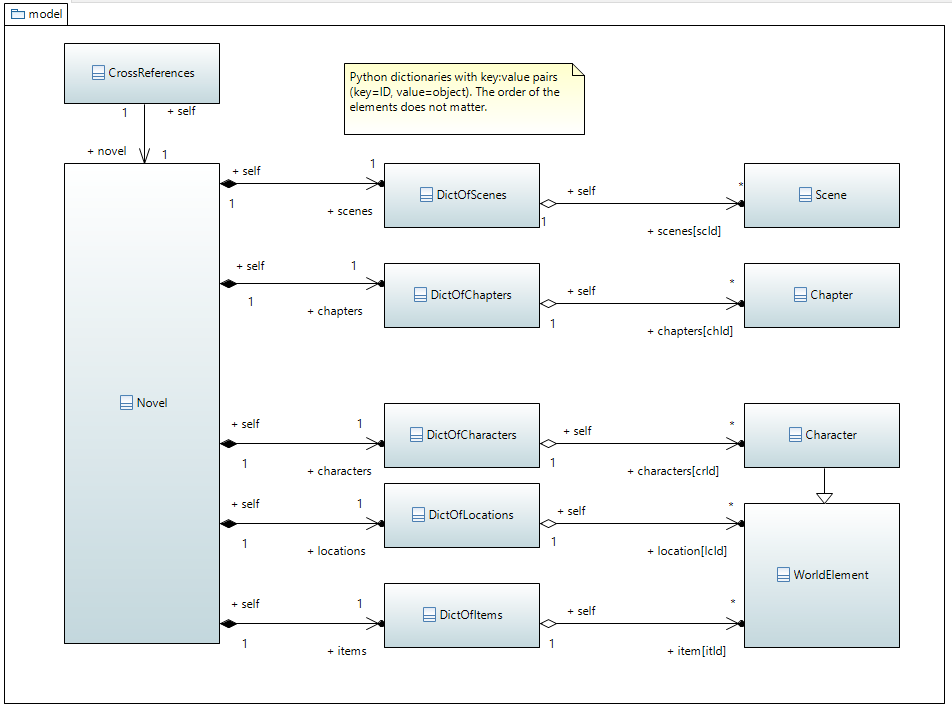
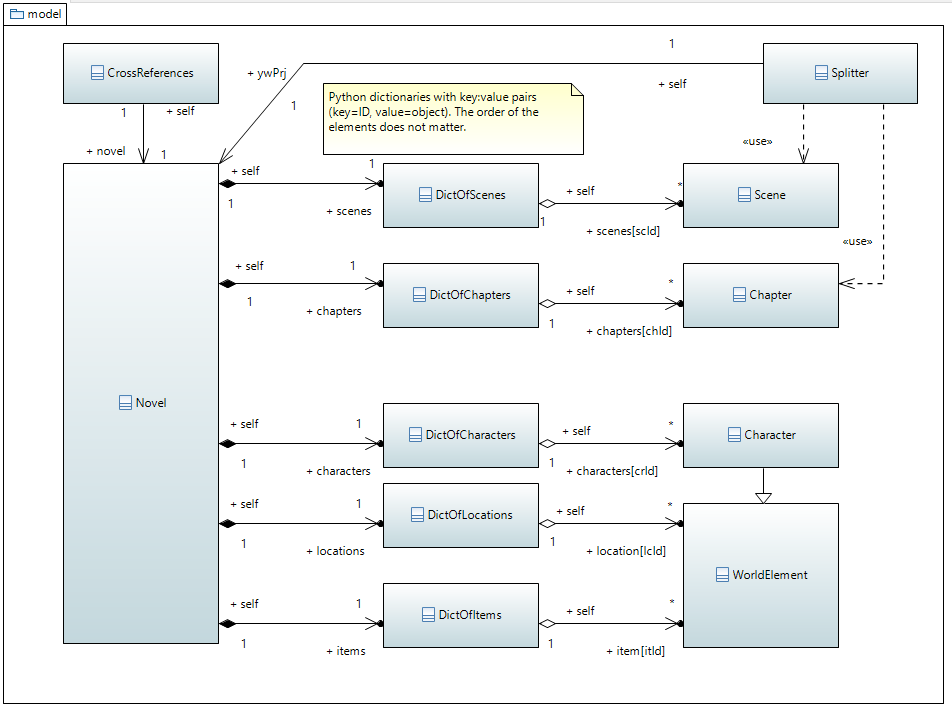
Update module documentation and UML model.

diff --git a/src/pywriter/model/__init__.py b/src/pywriter/model/__init__.py
@@ -8,4 +8,5 @@ scene -- Provide a class for yWriter scene representation.
 world_element -- Provide a generic class for yWriter story world element representation.
 character -- Provide a class for yWriter character representation.
 cross_references -- Provide a class for yWriter cross reference generation.
+splitter -- Provide a helper class for scene and chapter splitting.
 """

diff --git a/docs/devel/lib/model.md b/docs/devel/lib/model.md
@@ -18,6 +18,8 @@
 
 - **cross_references** -- Provide a class for yWriter cross reference generation.
 
+- **splitter** -- Provide a helper class for scene and chapter splitting.
+
 ## Classes
 
 ![model package class diagram](img/model_package_class_diagram.png)
